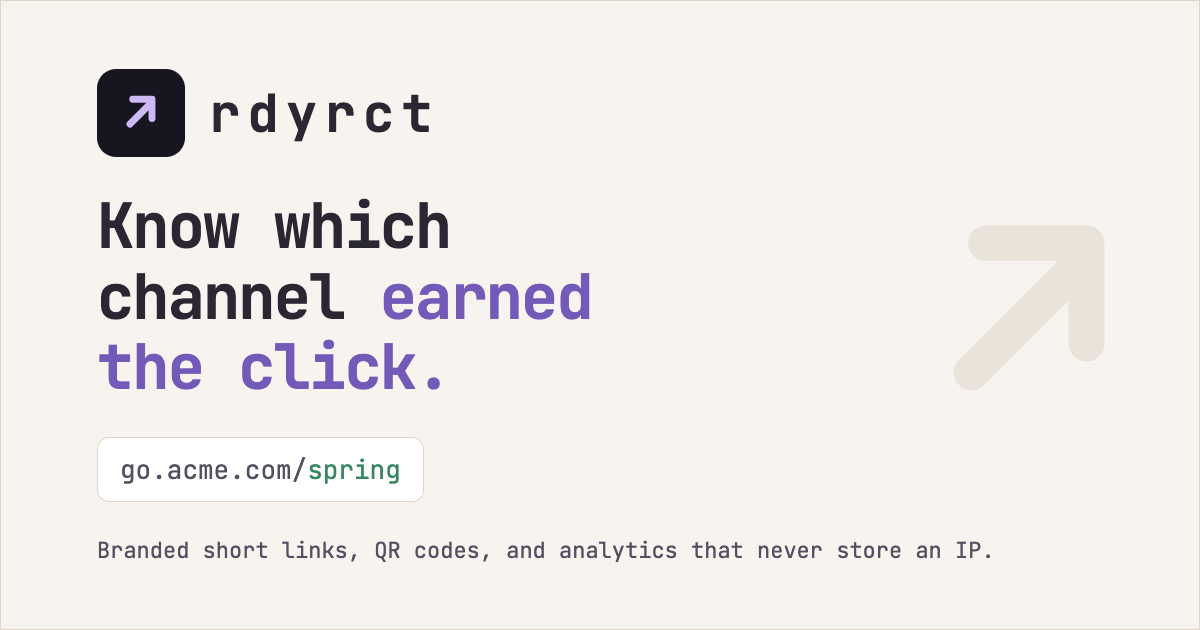
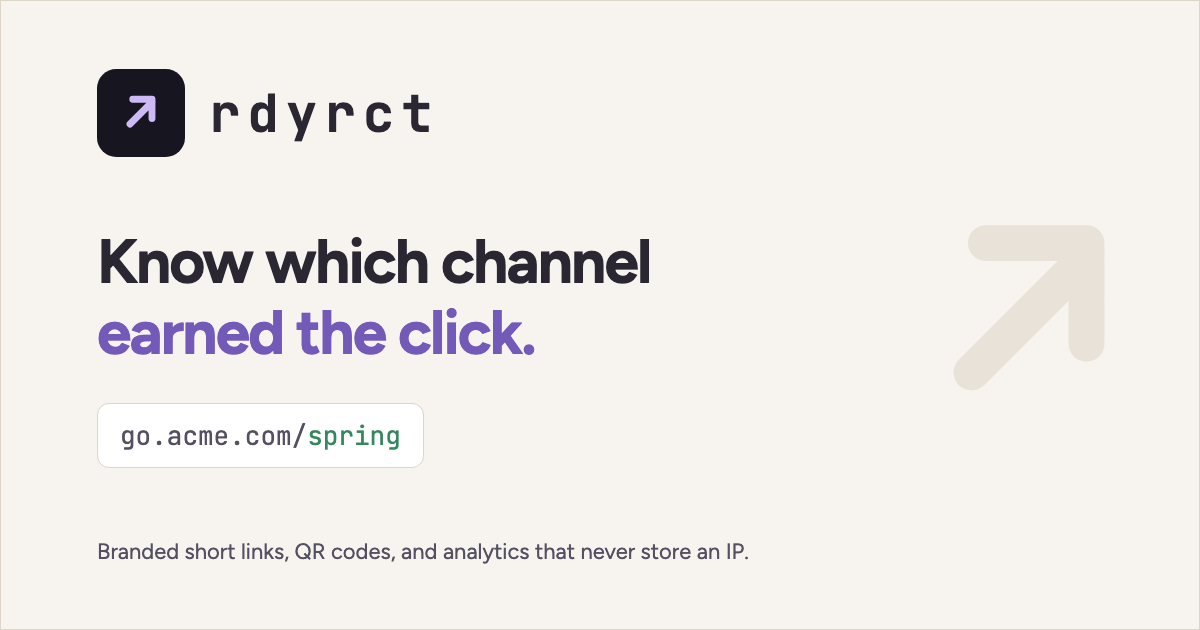
Use the variable cut of Figtree, and redraw the OG card
e2e shard 2 went red in CI with five "element not found" timeouts on a cold
dev server, all of them waiting for a page to paint. main is eight for eight
green, so this was ours: four static font weights meant four more modules in
the entry graph, and on a two-core runner with two workers competing the
landing page's first paint crossed a five second expectation.

The fix is less work rather than a longer timeout. One variable file covers
300 to 900 in 20KB against 48KB for the four statics, and it is one module
instead of four. `wght.css` carries latin and latin-ext behind unicode-range,
so a latin page still fetches one file. Verified: three font requests on the
landing page, down from six, and the preload list drops to two.

The OG card follows the same split it advertises. Headline in Figtree, the
wordmark and the short link in JetBrains Mono, since both are identifiers.
The source stays in scripts/ with its regeneration steps, which is why it did
not go stale this time.

Claude-Session: https://claude.ai/code/session_012VfyPU1UrdK8joAUPAzByL

Changed region(s): [[0.0617, 0.3016, 0.555, 0.6333], [0.0925, 0.8444, 0.8325, 0.9048], [0.0925, 0.6635, 0.3392, 0.7841]]

diff --git a/vite.config.ts b/vite.config.ts
@@ -8,21 +8,19 @@ import { cloudflare } from "@cloudflare/vite-plugin";
 /**
  * The faces above the fold, as `[package, file]`.
  *
- * Figtree 400 and 600 carry the header and the first heading; JetBrains Mono
- * 400 carries the slugs beside them. Mono 700 and the other Figtree weights
- * load normally: they appear below the fold or on interaction, and preloading
- * a weight that isn't painted immediately just competes for the same
- * connection as the ones that are.
+ * Figtree is the variable cut, so one file covers every weight the page
+ * paints. JetBrains Mono 400 carries the slugs. Mono 700 loads normally: it
+ * appears below the fold, and preloading a weight that isn't painted
+ * immediately just competes for the same connection as the ones that are.
  */
 const PRELOAD_FONTS = [
-  ["figtree", "figtree-latin-400-normal.woff2"],
-  ["figtree", "figtree-latin-600-normal.woff2"],
-  ["jetbrains-mono", "jetbrains-mono-latin-400-normal.woff2"],
+  ["@fontsource-variable/figtree", "figtree-latin-wght-normal.woff2"],
+  ["@fontsource/jetbrains-mono", "jetbrains-mono-latin-400-normal.woff2"],
 ] as const;
 
 /**
- * Preloads the two above-the-fold JetBrains Mono weights (latin subset) as a
- * real <link> in index.html. index.html is static, so it can't run the `?url`
+ * Preloads the above-the-fold faces (latin subset) as a real <link> in
+ * index.html. index.html is static, so it can't run the `?url`
  * import Fontsource's own docs recommend, and rendering the <link> from React
  * doesn't help either: this app is client-rendered, so the tag would only
  * land in <head> once the same JS that triggers the real paint has already
@@ -36,21 +34,21 @@ function preloadFonts(): Plugin {
   const fileNames = new Map<string, string>();
 
   return {
-    name: "preload-jetbrains-mono",
+    name: "preload-fonts",
     config(_config, { command }) {
       isServe = command === "serve";
     },
     buildStart() {
       if (isServe) return;
       for (const [pkg, file] of PRELOAD_FONTS) {
-        const filePath = fileURLToPath(import.meta.resolve(`@fontsource/${pkg}/files/${file}`));
+        const filePath = fileURLToPath(import.meta.resolve(`${pkg}/files/${file}`));
         const refId = this.emitFile({ type: "asset", name: file, source: readFileSync(filePath) });
         fileNames.set(file, this.getFileName(refId));
       }
     },
     transformIndexHtml() {
       const hrefs = isServe
-        ? PRELOAD_FONTS.map(([pkg, file]) => `/node_modules/@fontsource/${pkg}/files/${file}`)
+        ? PRELOAD_FONTS.map(([pkg, file]) => `/node_modules/${pkg}/files/${file}`)
         : PRELOAD_FONTS.map(([, file]) => `/${fileNames.get(file)}`);
       return hrefs.map((href) => ({
         tag: "link",

diff --git a/scripts/og-image.html b/scripts/og-image.html
@@ -4,7 +4,7 @@
   stale silently: it still carried a headline the landing page had dropped.
 
   To regenerate, with `bun run dev` already running. It has to be served by
-  the dev server, because the JetBrains Mono stylesheets below resolve through
+  the dev server, because the font stylesheets below resolve through
   /node_modules, so copy it into public/ for the shot and delete it after:
   anything left in public/ ships as a route on the live site.
 
@@ -24,6 +24,7 @@
   <head>
     <meta charset="utf-8" />
     <title>rdyrct og</title>
+    <link rel="stylesheet" href="/node_modules/@fontsource-variable/figtree/wght.css" />
     <link rel="stylesheet" href="/node_modules/@fontsource/jetbrains-mono/latin-400.css" />
     <link rel="stylesheet" href="/node_modules/@fontsource/jetbrains-mono/latin-700.css" />
     <style>
@@ -52,7 +53,9 @@
 
         background: var(--bg);
         color: var(--text);
-        font-family: "JetBrains Mono", ui-monospace, monospace;
+        /* Same split the product uses: Figtree for anything read, JetBrains
+           Mono for identifiers. See the rdyrct-design skill. */
+        font-family: "Figtree Variable", ui-sans-serif, system-ui, sans-serif;
         /* An inset rule, so the card keeps a defined edge on a white feed
            instead of dissolving into it. */
         border: 1px solid var(--border);
@@ -82,7 +85,9 @@
         gap: 24px;
       }
 
+      /* The wordmark is an identifier, so it keeps the mono face. */
       .wordmark {
+        font-family: "JetBrains Mono", ui-monospace, monospace;
         font-size: 52px;
         font-weight: 700;
         letter-spacing: 0.14em;
@@ -102,7 +107,9 @@
         color: var(--accent);
       }
 
+      /* A short link is the thing somebody types: mono. */
       .chip {
+        font-family: "JetBrains Mono", ui-monospace, monospace;
         margin-top: 34px;
         align-self: flex-start;
         display: inline-flex;

diff --git a/src/app/main.tsx b/src/app/main.tsx
@@ -13,10 +13,14 @@ import { QueryClient, QueryClientProvider } from "@tanstack/react-query";
 // Figtree carries everything anybody reads; JetBrains Mono is kept for
 // identifiers, the strings a person copies or types. See the rdyrct-design
 // skill for which is which.
-import "@fontsource/figtree/latin-400.css";
-import "@fontsource/figtree/latin-500.css";
-import "@fontsource/figtree/latin-600.css";
-import "@fontsource/figtree/latin-700.css";
+//
+// The variable cut, not four static weights: one 20KB file covers 300 to 900
+// against 48KB for the four, and it is one module in the entry graph instead
+// of four. That last part is why it changed: on a cold dev server in CI the
+// extra transforms pushed the landing page's first paint past a 5s
+// expectation. `wght.css` carries latin and latin-ext behind unicode-range,
+// so only the subset a page needs is fetched.
+import "@fontsource-variable/figtree/wght.css";
 import "@fontsource/jetbrains-mono/latin-400.css";
 import "@fontsource/jetbrains-mono/latin-700.css";
 import "./styles.css";

diff --git a/src/app/styles.css b/src/app/styles.css
@@ -99,7 +99,7 @@
   --color-chart: var(--chart);
   --color-danger: var(--danger);
   /* stylelint-disable value-keyword-case -- Preserve canonical font-family casing. */
-  --font-sans: Figtree, ui-sans-serif, system-ui, -apple-system, "Segoe UI", sans-serif;
+  --font-sans: "Figtree Variable", ui-sans-serif, system-ui, -apple-system, "Segoe UI", sans-serif;
   --font-mono: "JetBrains Mono", ui-monospace, SFMono-Regular, Menlo, Consolas, monospace;
   /* stylelint-enable value-keyword-case */
   --text-2xs: 11px;
